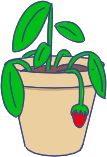
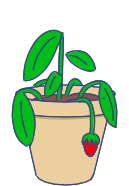
fix: wrong asset height in the greenhouse

diff --git a/source/modules/games/commands/greenhouse.ts b/source/modules/games/commands/greenhouse.ts
@@ -253,7 +253,7 @@ export default class GreenhouseCommand extends Command {
 					? this.container.canvasGreenhouseImages.potTomatoStage1
 					: this.container.canvasGreenhouseImages.potTomatoStage2;
 
-				ctx.drawImage(plantImage, 1291 + x * 173, 133 + y * 304);
+				ctx.drawImage(plantImage, 1285 + x * 173, 49 + y * 304);
 			}
 		}
 
